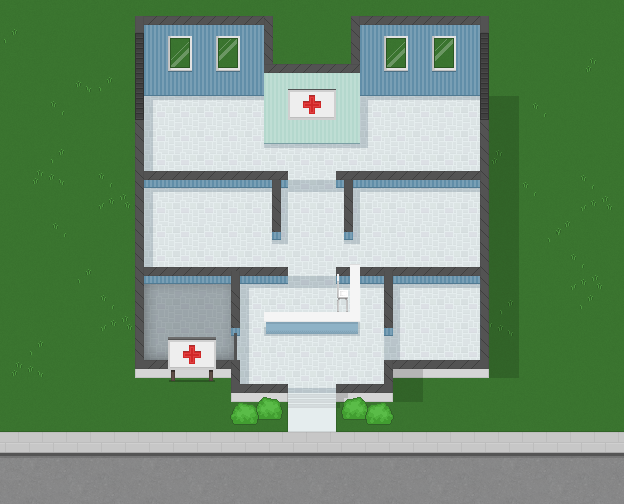
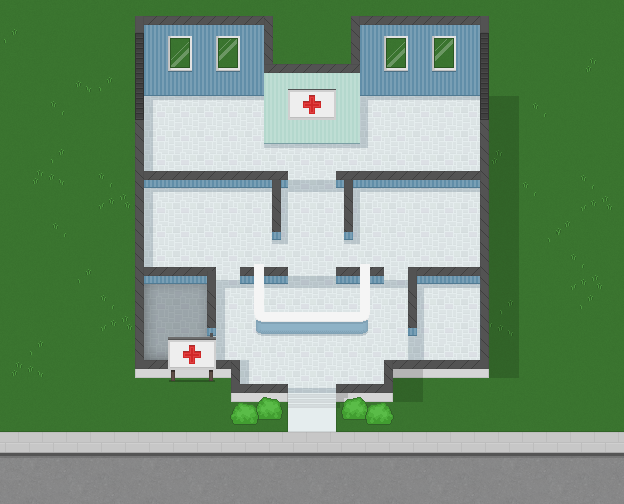
new layout and starting position

Changed region(s): [[0.5176, 0.506, 0.7003, 0.7143], [0.3045, 0.506, 0.4263, 0.7143]]

diff --git a/src/game/Level.js b/src/game/Level.js
@@ -17,10 +17,10 @@ function Level() {
         + '-----w-b-b-w--w-b-b-w-----\n'
         + '-----w-b-b-w--w-b-b-w-----\n'
         + '-----w--------------w-----\n'
-        + '-----wwwwwww--wwwwwww-----\n'
-        + '-----w---w----w-w---w-----\n'
-        + '-----w---w-wwww-w-f-w-----\n'
-        + '-----w---w-rrrr-----w-----\n'
+        + '-----wwww-ww--ww-wwww-----\n'
+        + '-----w--w-w----w-w--w----\n'
+        + '-----w--w-wwwwww-wf-w-----\n'
+        + '-----w--w--rrrr-----w-----\n'
         + '-----wwwww------wwwww-----\n'
         + '---------www--www---------\n'
         + '---------www--www---------\n'

diff --git a/src/game/GameState.js b/src/game/GameState.js
@@ -1,7 +1,7 @@
 function GameState() {
     this.level = new Level();
     this.hospital = new Hospital();
-    this.doctor = new Doctor(13, 15, 0.5, 0.1, this);
+    this.doctor = new Doctor(13, 13, 0.5, 0.1, this);
     this.facilityManager = null;
     this.closestPatientToDoctor = null;
 
